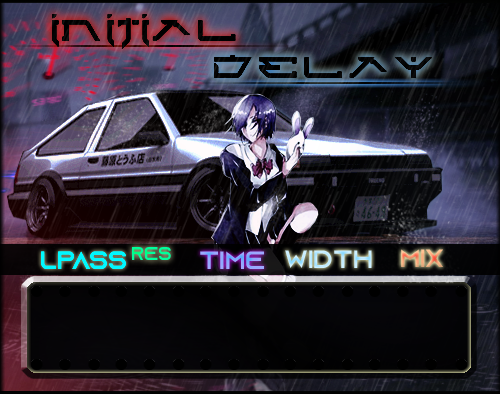
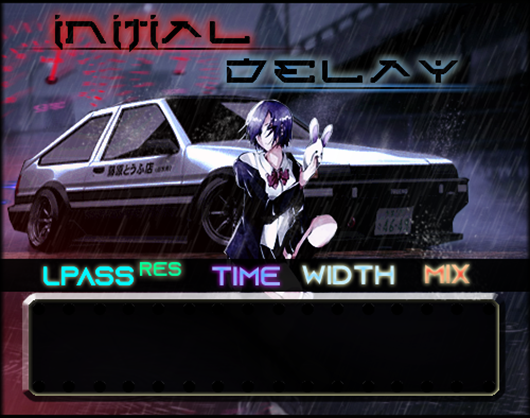
Massive Animation update V6.0

diff --git a/Source/PluginEditor.cpp b/Source/PluginEditor.cpp
@@ -11,6 +11,39 @@
 #include "PluginProcessor.h"
 #include "PluginEditor.h"
 
+AnimatedComponent::AnimatedComponent() {
+	currentIndex = 0;
+	currentImage = images[currentIndex];
+	Timer::startTimer(94);
+}
+
+void AnimatedComponent::timerCallback()
+{
+	DBG("in timer callback");
+	rotateImage();
+	repaint();
+}
+
+
+void AnimatedComponent::paint(juce::Graphics &g)
+	{
+		//DBG(currentIndex);
+		g.drawImageAt(currentImage,0,0);
+	}
+
+void AnimatedComponent::rotateImage() {
+	
+	if (currentIndex < 7) {
+		currentIndex++;
+		currentImage = images[currentIndex];
+	}
+	else if (currentIndex >= 7){//8
+		currentIndex = 0;
+		currentImage = images[currentIndex];
+	}
+	DBG(currentIndex);
+}
+
 //==============================================================================
 InitialDelayAudioProcessorEditor::InitialDelayAudioProcessorEditor (InitialDelayAudioProcessor& p)
     : AudioProcessorEditor (&p), processor (p)
@@ -18,21 +51,22 @@ InitialDelayAudioProcessorEditor::InitialDelayAudioProcessorEditor (InitialDelay
     // Make sure that before the constructor has finished, you've set the
     // editor's size to whatever you need it to be.
     setOpaque(true);
-    setSize (500, 394);
+    setSize (530, 418);
    
 	//Dial Implimentation
 
+	addAndMakeVisible(Comp);
     //filterCutoffDial.addListener(this);
     addAndMakeVisible(filterCutoffDial);
     
 	filterCutoffDial.setTextBoxStyle(Slider::NoTextBox, false, 0, 0);
 	filterCutoffDial.setSliderStyle(Slider::SliderStyle::RotaryVerticalDrag);
-	filterCutoffDial.setSize(80, 80);
+	filterCutoffDial.setSize(90, 90);
 	
 
 	filterResDial.setTextBoxStyle(Slider::NoTextBox, false, 0, 0);
 	filterResDial.setSliderStyle(Slider::SliderStyle::RotaryVerticalDrag);
-	filterResDial.setSize(50, 50);
+	filterResDial.setSize(55, 55);
 	
 
 	//filterResDial.addListener(this);
@@ -48,12 +82,11 @@ InitialDelayAudioProcessorEditor::InitialDelayAudioProcessorEditor (InitialDelay
     addAndMakeVisible(filterResLabel);
     //filterResLabel.setText("Q", dontSendNotification);
     filterResLabel.attachToComponent(&filterResDial, false);
-    
-    
+       
     delayTimeDial.setTextBoxStyle(Slider::NoTextBox, false, 0, 0);
     delayTimeDial.setSliderStyle(Slider::SliderStyle::RotaryVerticalDrag);
     delayTimeDial.setNumDecimalPlacesToDisplay(0);
-    delayTimeDial.setSize(67, 67);
+    delayTimeDial.setSize(80, 80);
     delayTimeDial.setTextValueSuffix("ms");
     
 	//delayTimeDial.addListener(this);
@@ -61,32 +94,31 @@ InitialDelayAudioProcessorEditor::InitialDelayAudioProcessorEditor (InitialDelay
     
     delayMixDial.setTextBoxStyle(Slider::NoTextBox, false, 0, 0);
     delayMixDial.setSliderStyle(Slider::SliderStyle::RotaryVerticalDrag);
-    delayMixDial.setSize(67, 67);
+    delayMixDial.setSize(80, 80);
 	//delayMixDial.addListener(this);
     addAndMakeVisible(delayMixDial);
     
     delayFeedbackDial.setTextBoxStyle(Slider::NoTextBox, false, 0, 0);
     delayFeedbackDial.setSliderStyle(Slider::SliderStyle::RotaryVerticalDrag);
     delayFeedbackDial.setNumDecimalPlacesToDisplay(0);
-    delayFeedbackDial.setSize(67, 67);
+    delayFeedbackDial.setSize(80, 80);
     delayFeedbackDial.setTextValueSuffix("ms");
     
 	//delayFeedbackDial.addListener(this);
 	addAndMakeVisible(delayFeedbackDial);
 
 	//Skinning the Dials by connecting them to classes established in the PluginEditor.h 
-	filterCutoffDial.setLookAndFeel(&otherLookAndFeel);
+	filterCutoffDial.setLookAndFeel(&otherLookAndFeel4);
 	filterResDial.setLookAndFeel(&otherLookAndFeel3);
-    delayTimeDial.setLookAndFeel(&otherLookAndFeel);
     delayMixDial.setLookAndFeel(&otherLookAndFeel);
     delayFeedbackDial.setLookAndFeel(&otherLookAndFeel);
-
-    
-    delayTimeValue = new AudioProcessorValueTreeState::SliderAttachment (processor.mState, "delayTime", delayTimeDial);
+	delayTimeDial.setLookAndFeel(&otherLookAndFeel2);
+   
+	delayTimeValue = new AudioProcessorValueTreeState::SliderAttachment (processor.mState, "delayTime", delayTimeDial);
     delayMixValue = new AudioProcessorValueTreeState::SliderAttachment (processor.mState, "mix", delayMixDial);
     delayFeedbackValue = new AudioProcessorValueTreeState::SliderAttachment (processor.mState, "feedback", delayFeedbackDial);
-    
-    
+
+
 }
 
 InitialDelayAudioProcessorEditor::~InitialDelayAudioProcessorEditor()
@@ -96,18 +128,20 @@ InitialDelayAudioProcessorEditor::~InitialDelayAudioProcessorEditor()
 //==============================================================================
 void InitialDelayAudioProcessorEditor::paint (Graphics& g)
 {
-	Image background = ImageCache::getFromMemory(BinaryData::InitialD_png, BinaryData::InitialD_pngSize);
-	g.drawImageAt(background, 0, 0);
+	//AnimationOne = ImageCache::getFromMemory(BinaryData::InitialD_png, BinaryData::InitialD_pngSize);
+	//g.drawImageAt(AnimationOne, 0, 0);
 }
 
 void InitialDelayAudioProcessorEditor::resized()
 {
 	//Placement of dials on canvis 
-	filterCutoffDial.setBounds(40, getHeight() - 107, 80, 80);
-	filterResDial.setBounds(118, getHeight() - 107, 80, 80);
+	filterCutoffDial.setBounds(45, getHeight() - 114, 80, 80);
+	filterResDial.setBounds(135, getHeight() - 112, 80, 80);
     
-	delayTimeDial.setBounds(200, getHeight() - 99, 80, 80);
-    delayFeedbackDial.setBounds(295, getHeight()- 99, 80, 80);
-	delayMixDial.setBounds(390, getHeight() - 99, 80, 80);
+	delayTimeDial.setBounds(217, getHeight() - 107, 80, 80);
+    delayFeedbackDial.setBounds(315, getHeight()- 107, 80, 80);
+	delayMixDial.setBounds(410, getHeight() - 107, 80, 80);
+	
+	Comp.setBounds(getLocalBounds());
 }
 

diff --git a/JuceLibraryCode/JuceHeader.h b/JuceLibraryCode/JuceHeader.h
@@ -30,6 +30,7 @@
 #include <juce_gui_extra/juce_gui_extra.h>
 #include <juce_opengl/juce_opengl.h>
 
+#include "BinaryData.h"
 
 #if ! DONT_SET_USING_JUCE_NAMESPACE
  // If your code uses a lot of JUCE classes, then this will obviously save you
